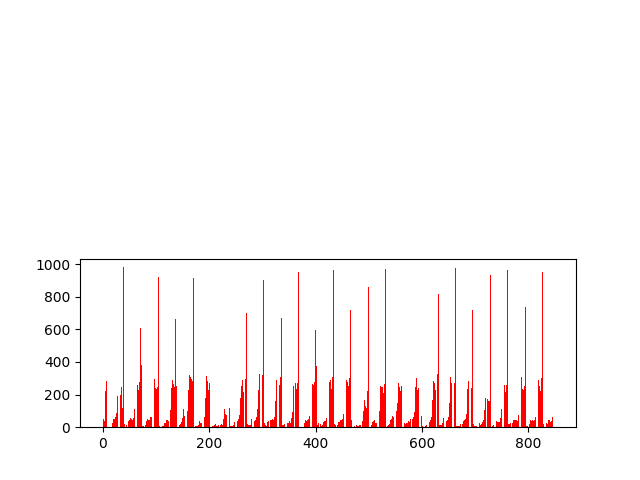
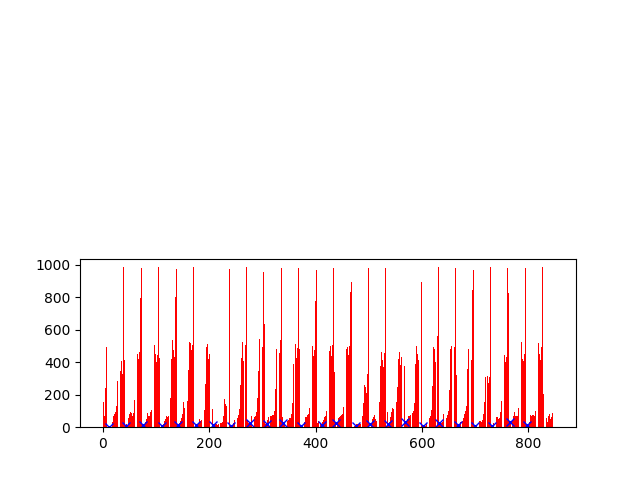
valley and peaks found

diff --git a/line_segmentation.py b/line_segmentation.py
@@ -2,6 +2,7 @@ import cv2
 from matplotlib import pyplot as plt
 import numpy as np
 import statistics
+from peakdetect import peakdetect
 
 def line_segmentation(image):
     height = image.shape[0]-200
@@ -25,6 +26,9 @@ def line_segmentation(image):
 
 def histogram(array):
     ax2 = plt.subplot(2, 1, 2)
+    peaks = peakdetect(array, lookahead=20)
+    higherPeaks = np.array(peaks[1])
+    ax2.plot(higherPeaks[:,0], higherPeaks[:,1], 'bx')
     ax2.bar(range(len(array)), array, color='r')
     # plt.show()
     plt.savefig("histogram-line5.png")
@@ -40,13 +44,20 @@ def find_line(image,array):
     
     width = image.shape[1]
     lines = []
-    for a in range(len(array)):
-        if array[a] <= mean and array[a] > mean/2:
-            lines.append(a)
+    # for a in range(len(array)):
+    #     if array[a] <= mean and array[a] > mean/2:
+    #         lines.append(a)
+
+    peaks = peakdetect(array, lookahead=20)
+    higherPeaks = np.array(peaks[1])
+
+    for peak in higherPeaks:
+            lines.append(peak)
 
     print ("lines: ", len(lines))
     
     imageColor = cv2.cvtColor(image, cv2.COLOR_GRAY2RGBA)
+
     
     for i in range(len(lines)):
         for j in range(width):
@@ -58,6 +69,10 @@ def find_line(image,array):
 
 
 image = cv2.imread('exemplo9.jpeg', 0)
+image = cv2.bitwise_not(image)
+kernel = np.ones((2,2), np.uint8)
+image = cv2.dilate(image, kernel, iterations=1)
+image = cv2.bitwise_not(image)
 line_segmentation(image)
 
     
